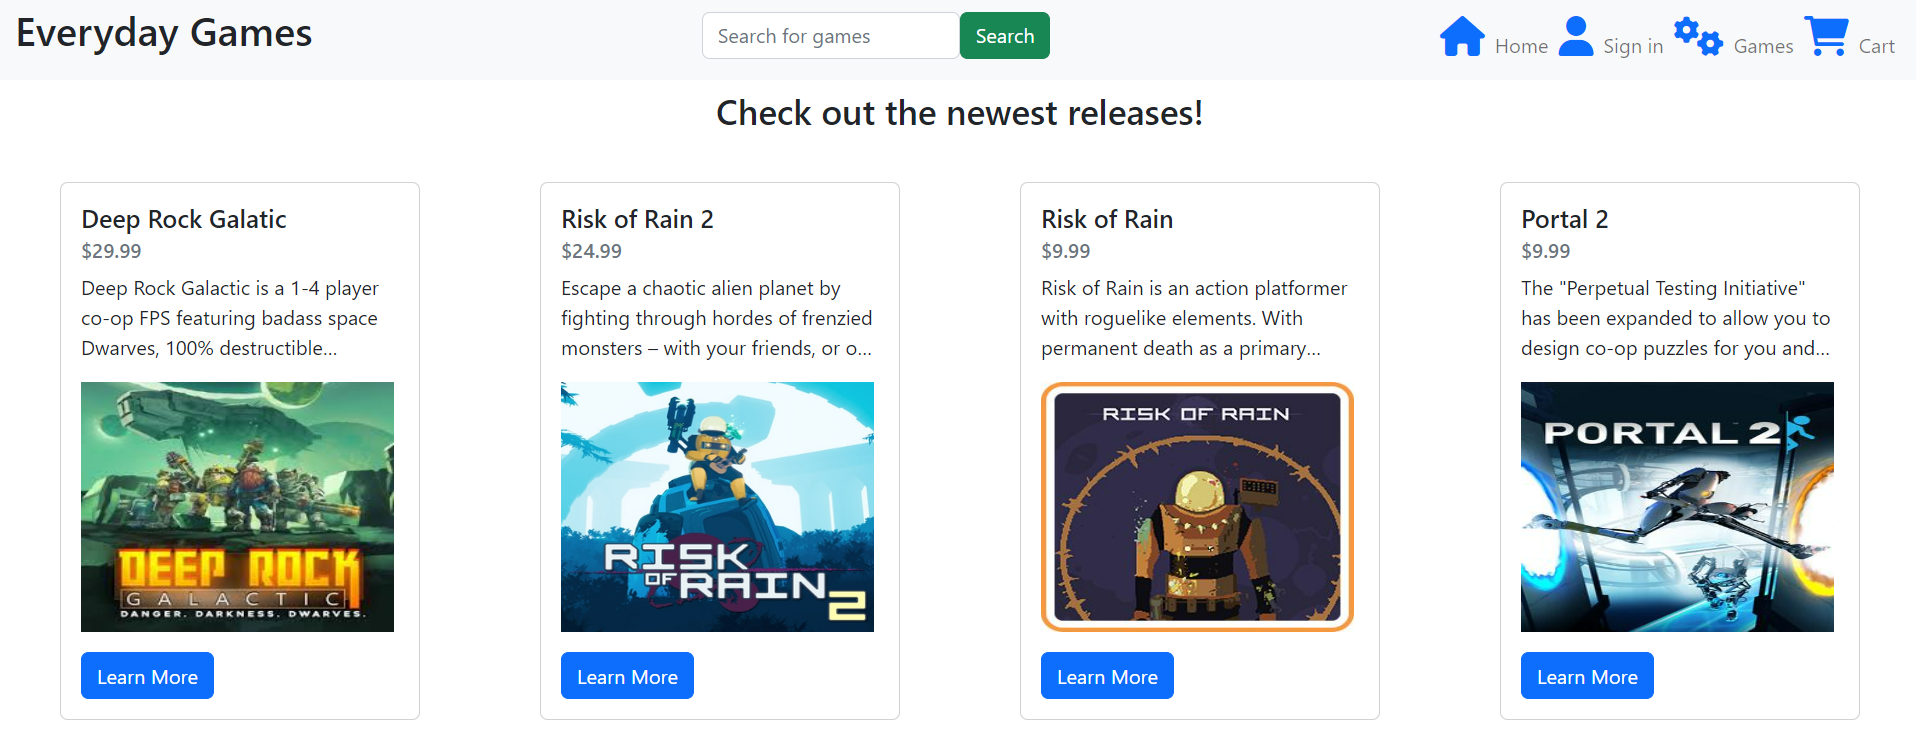
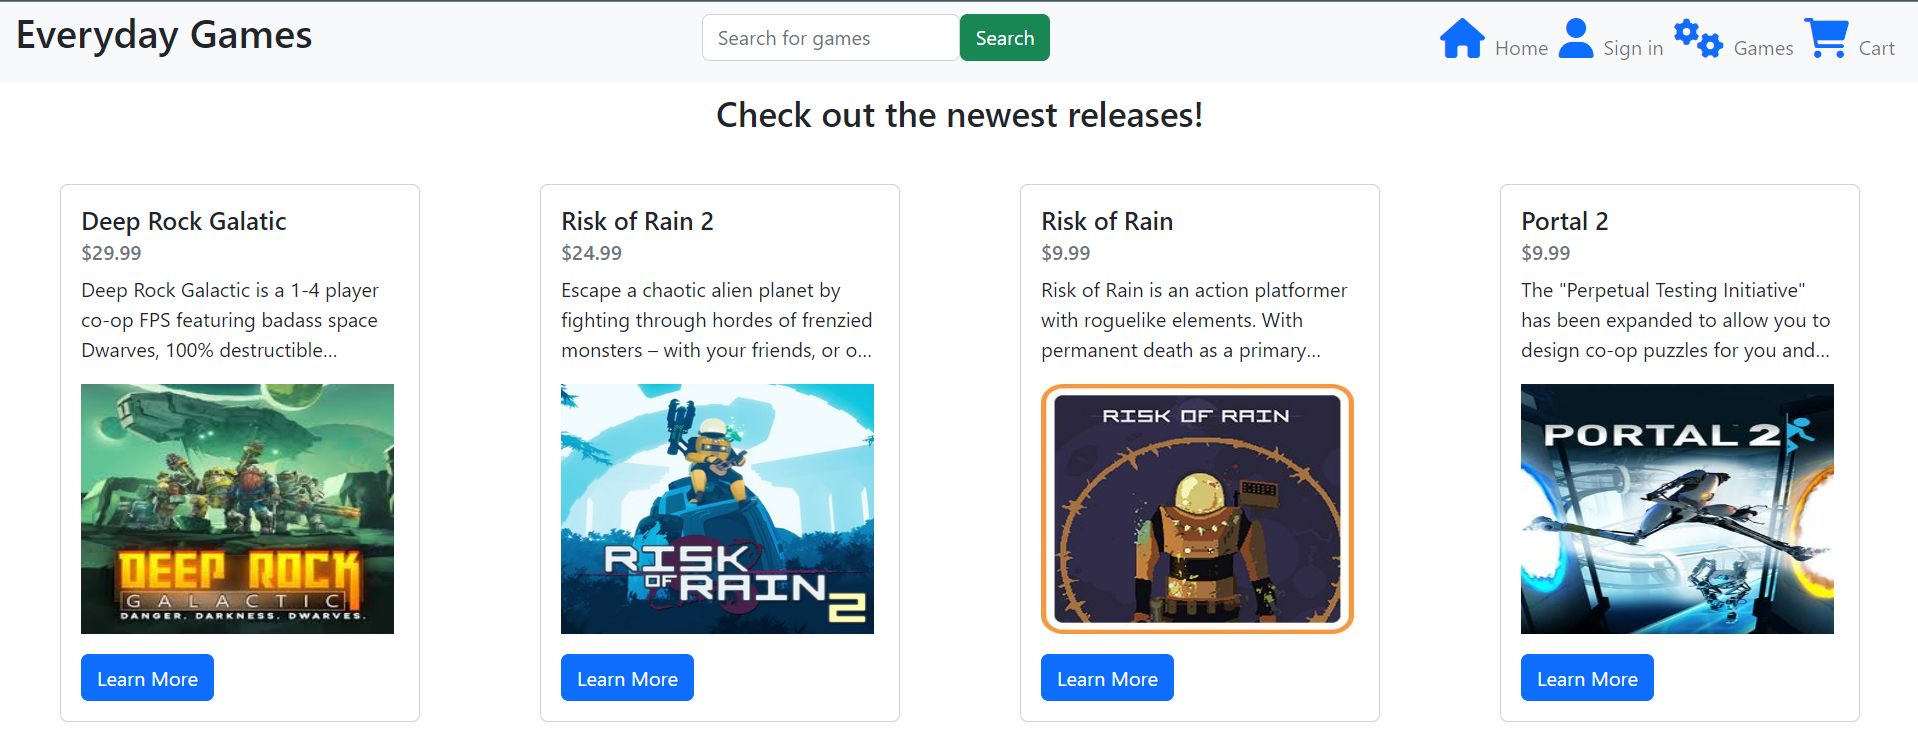
fixed wording on cards

diff --git a/index.html b/index.html
@@ -39,9 +39,9 @@
             <div class="card-text">
                 <h3><b>Everyday Games</b></h3>
                 <p>
-                    My Javascript class final project is an e-comerce site for a fake company known as everyday games.
-                    People can log in and leave reviews on top of being able to build their cart and go through a simulated checkout.
-                    This project utalizes additonal tools such as Firebase, Bootstrap, and Vue.js.
+                    For my Javascript class final project, I made an e-commerce site for a fake company known as Everyday Games.
+                    The website has various features, such as logging in to leave reviews, adding items to a cart, and going through a simulated checkout process.
+                    Alongside Javascript, this project utilizes additional tools such as Firebase, Bootstrap, and Vue.js.
                 </p>
             </div>
             <a href="https://leaf-45.github.io/JavaScript2-Final/"><button>Check out Everyday Games <i class="fa-solid fa-arrow-right"></i></button></a>
@@ -53,7 +53,7 @@
                 <h3><b>React Basics</b></h3>
                 <p>
                     This is a basic react application that I completed in class. 
-                    This application can add and remove countries which updates the webpage without having to reload.
+                    This application can add and remove countries, which updates the webpage without the need to reload.
                 </p>
             </div>
             <a href="https://leaf-45.github.io/react-basics/"><button>Check out React Basics <i class="fa-solid fa-arrow-right"></i></button></a>   
@@ -65,7 +65,7 @@
                 <h3><b>Pong</b></h3>
                 <p>
                     This is the first game I developed in python as a personal project.
-                    The project utalizes the library pygame and requires a keyboard in order to play.
+                    The project utilizes the Pygame library and requires a keyboard in order to play.
                 </p>
             </div>
             <a href="https://replit.com/@Leaf45/Pong"><button>Check out Pong <i class="fa-solid fa-arrow-right"></i></button></a>

diff --git a/Style.css b/Style.css
@@ -49,8 +49,7 @@ a {
 
 img {
     width: 100%;
-    height: 200px;
-    border-bottom: 20 solid;
+    height: 250px;
     border-radius: 20px 20px 0 0;
 }
 
@@ -76,9 +75,11 @@ img {
     color: black;
 }
 
+.card-text p {
+    padding: 0 10px 0 10px;
+}
+
 .card-text h3 {
-    padding-top: 20px;
-    border-top: 5px solid;
     margin: 0em 0em 1em 0em;
 }
 
